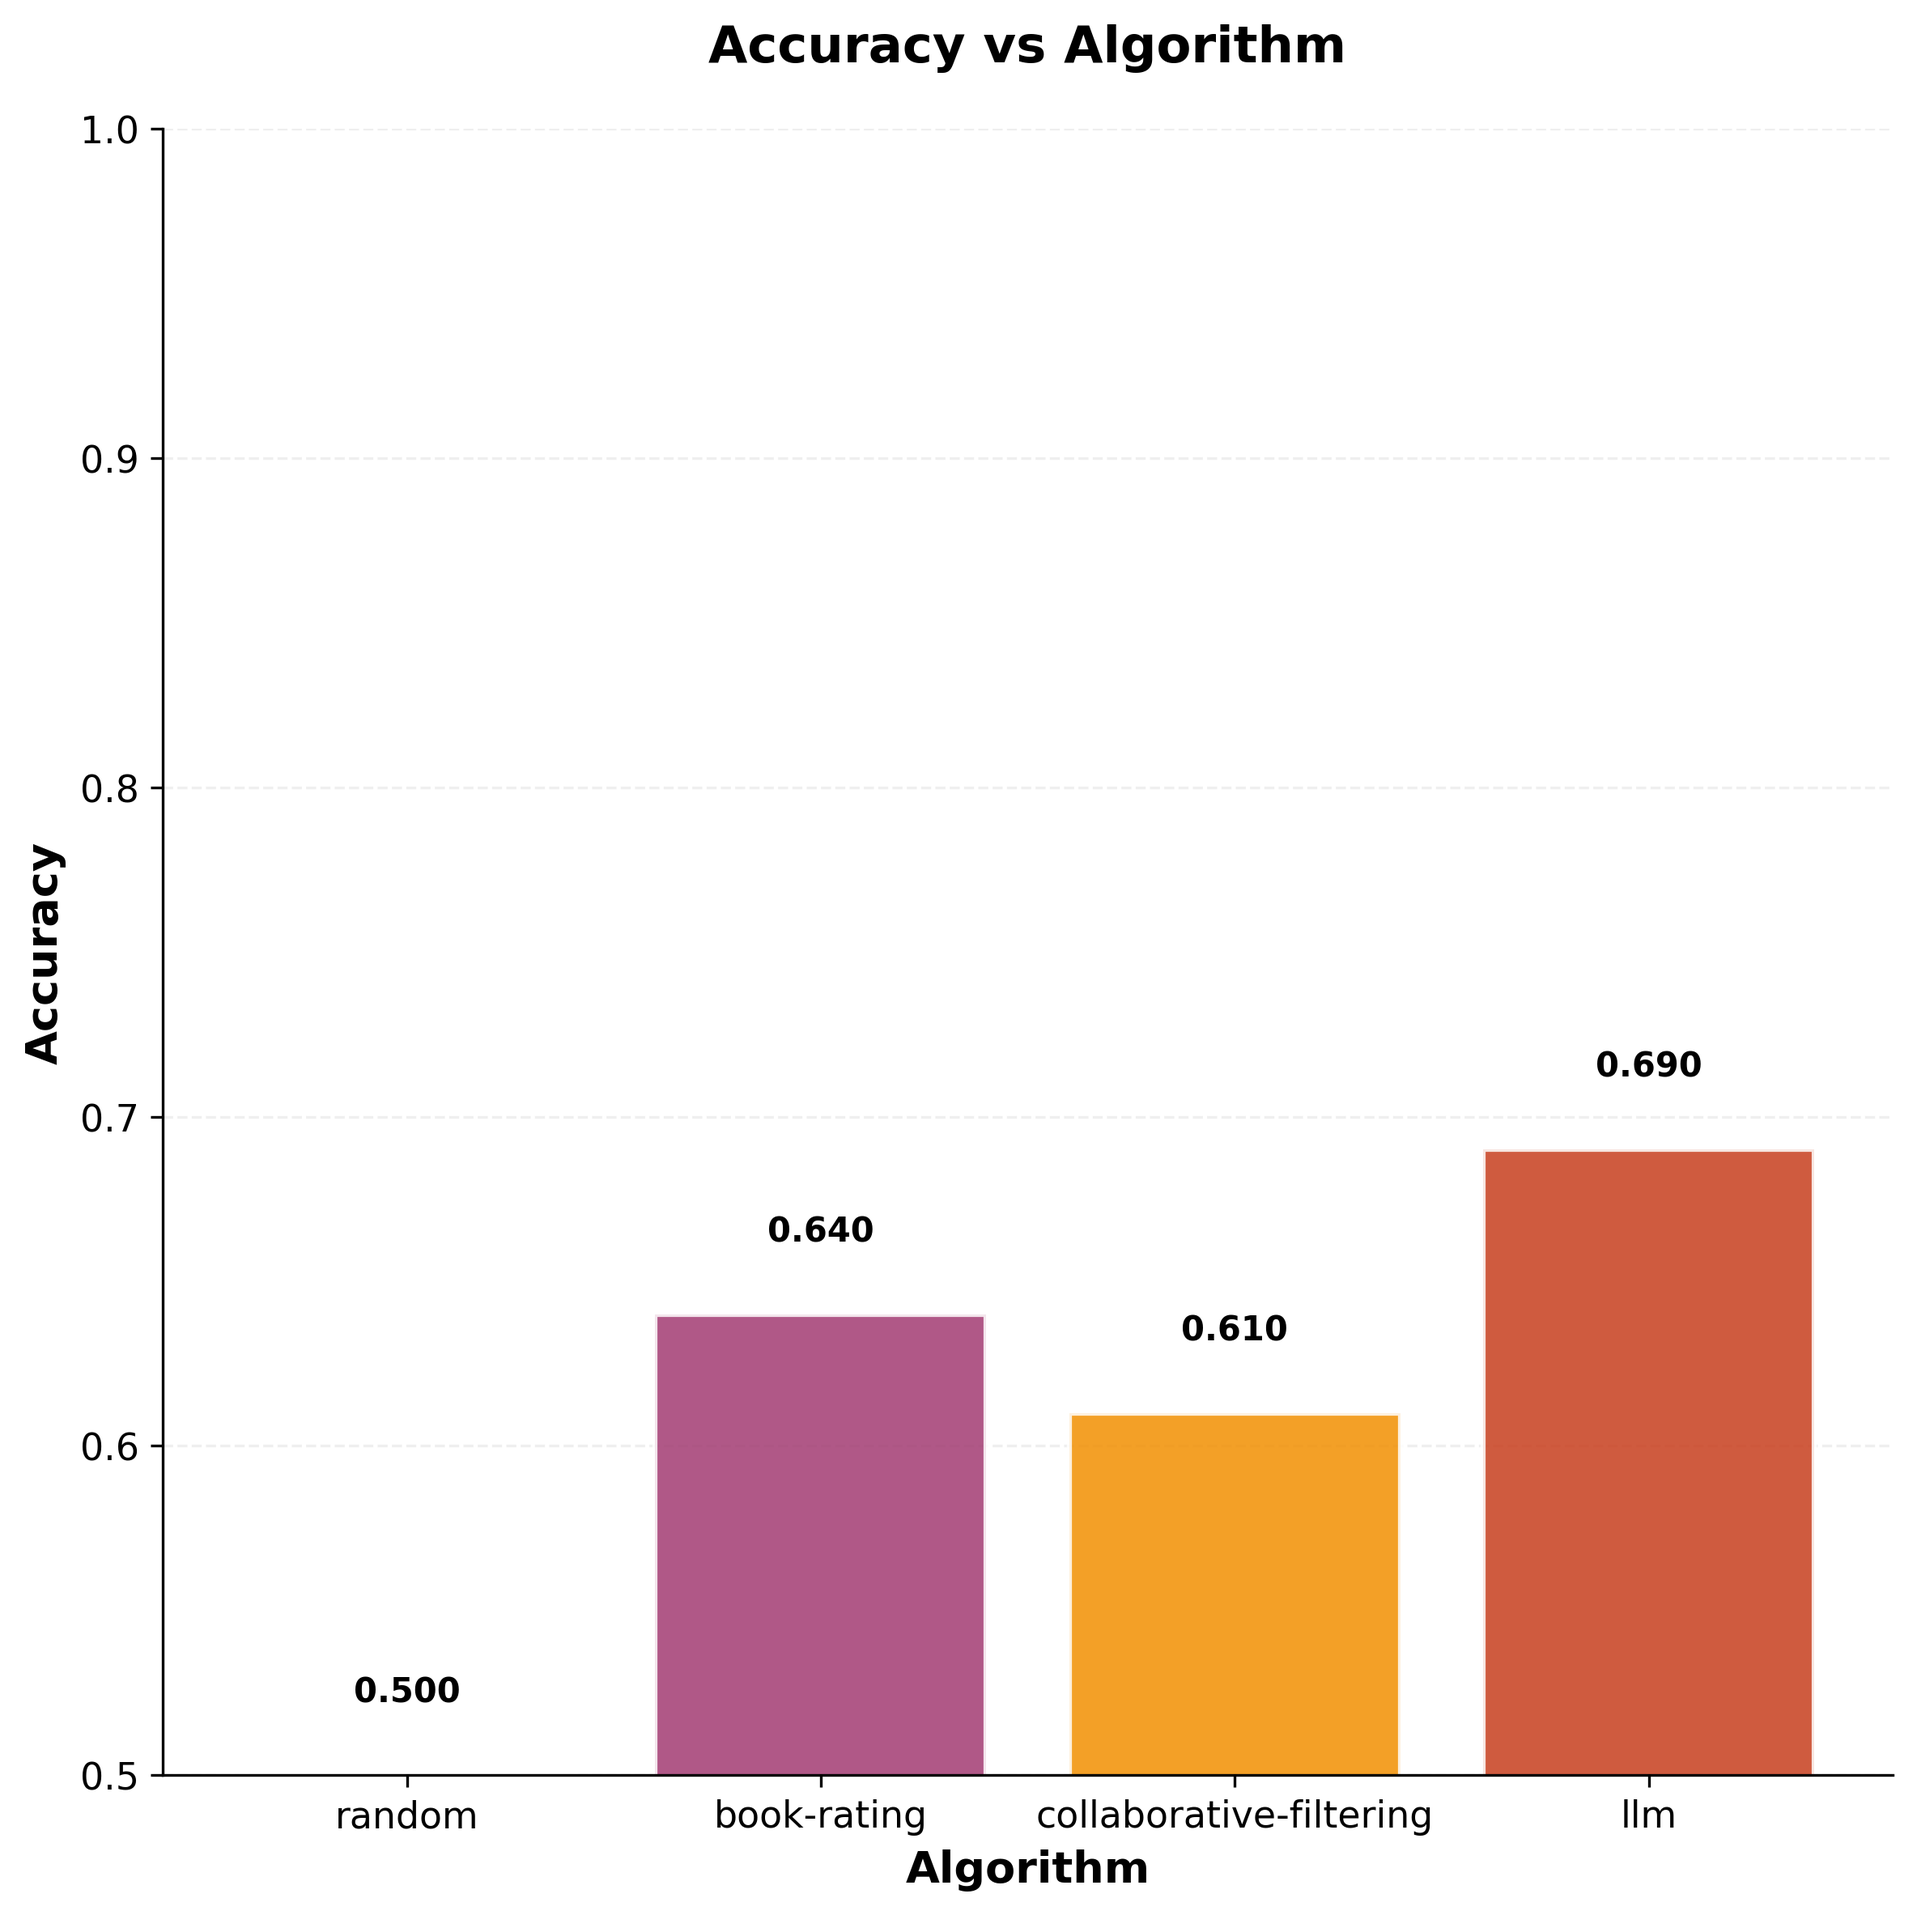
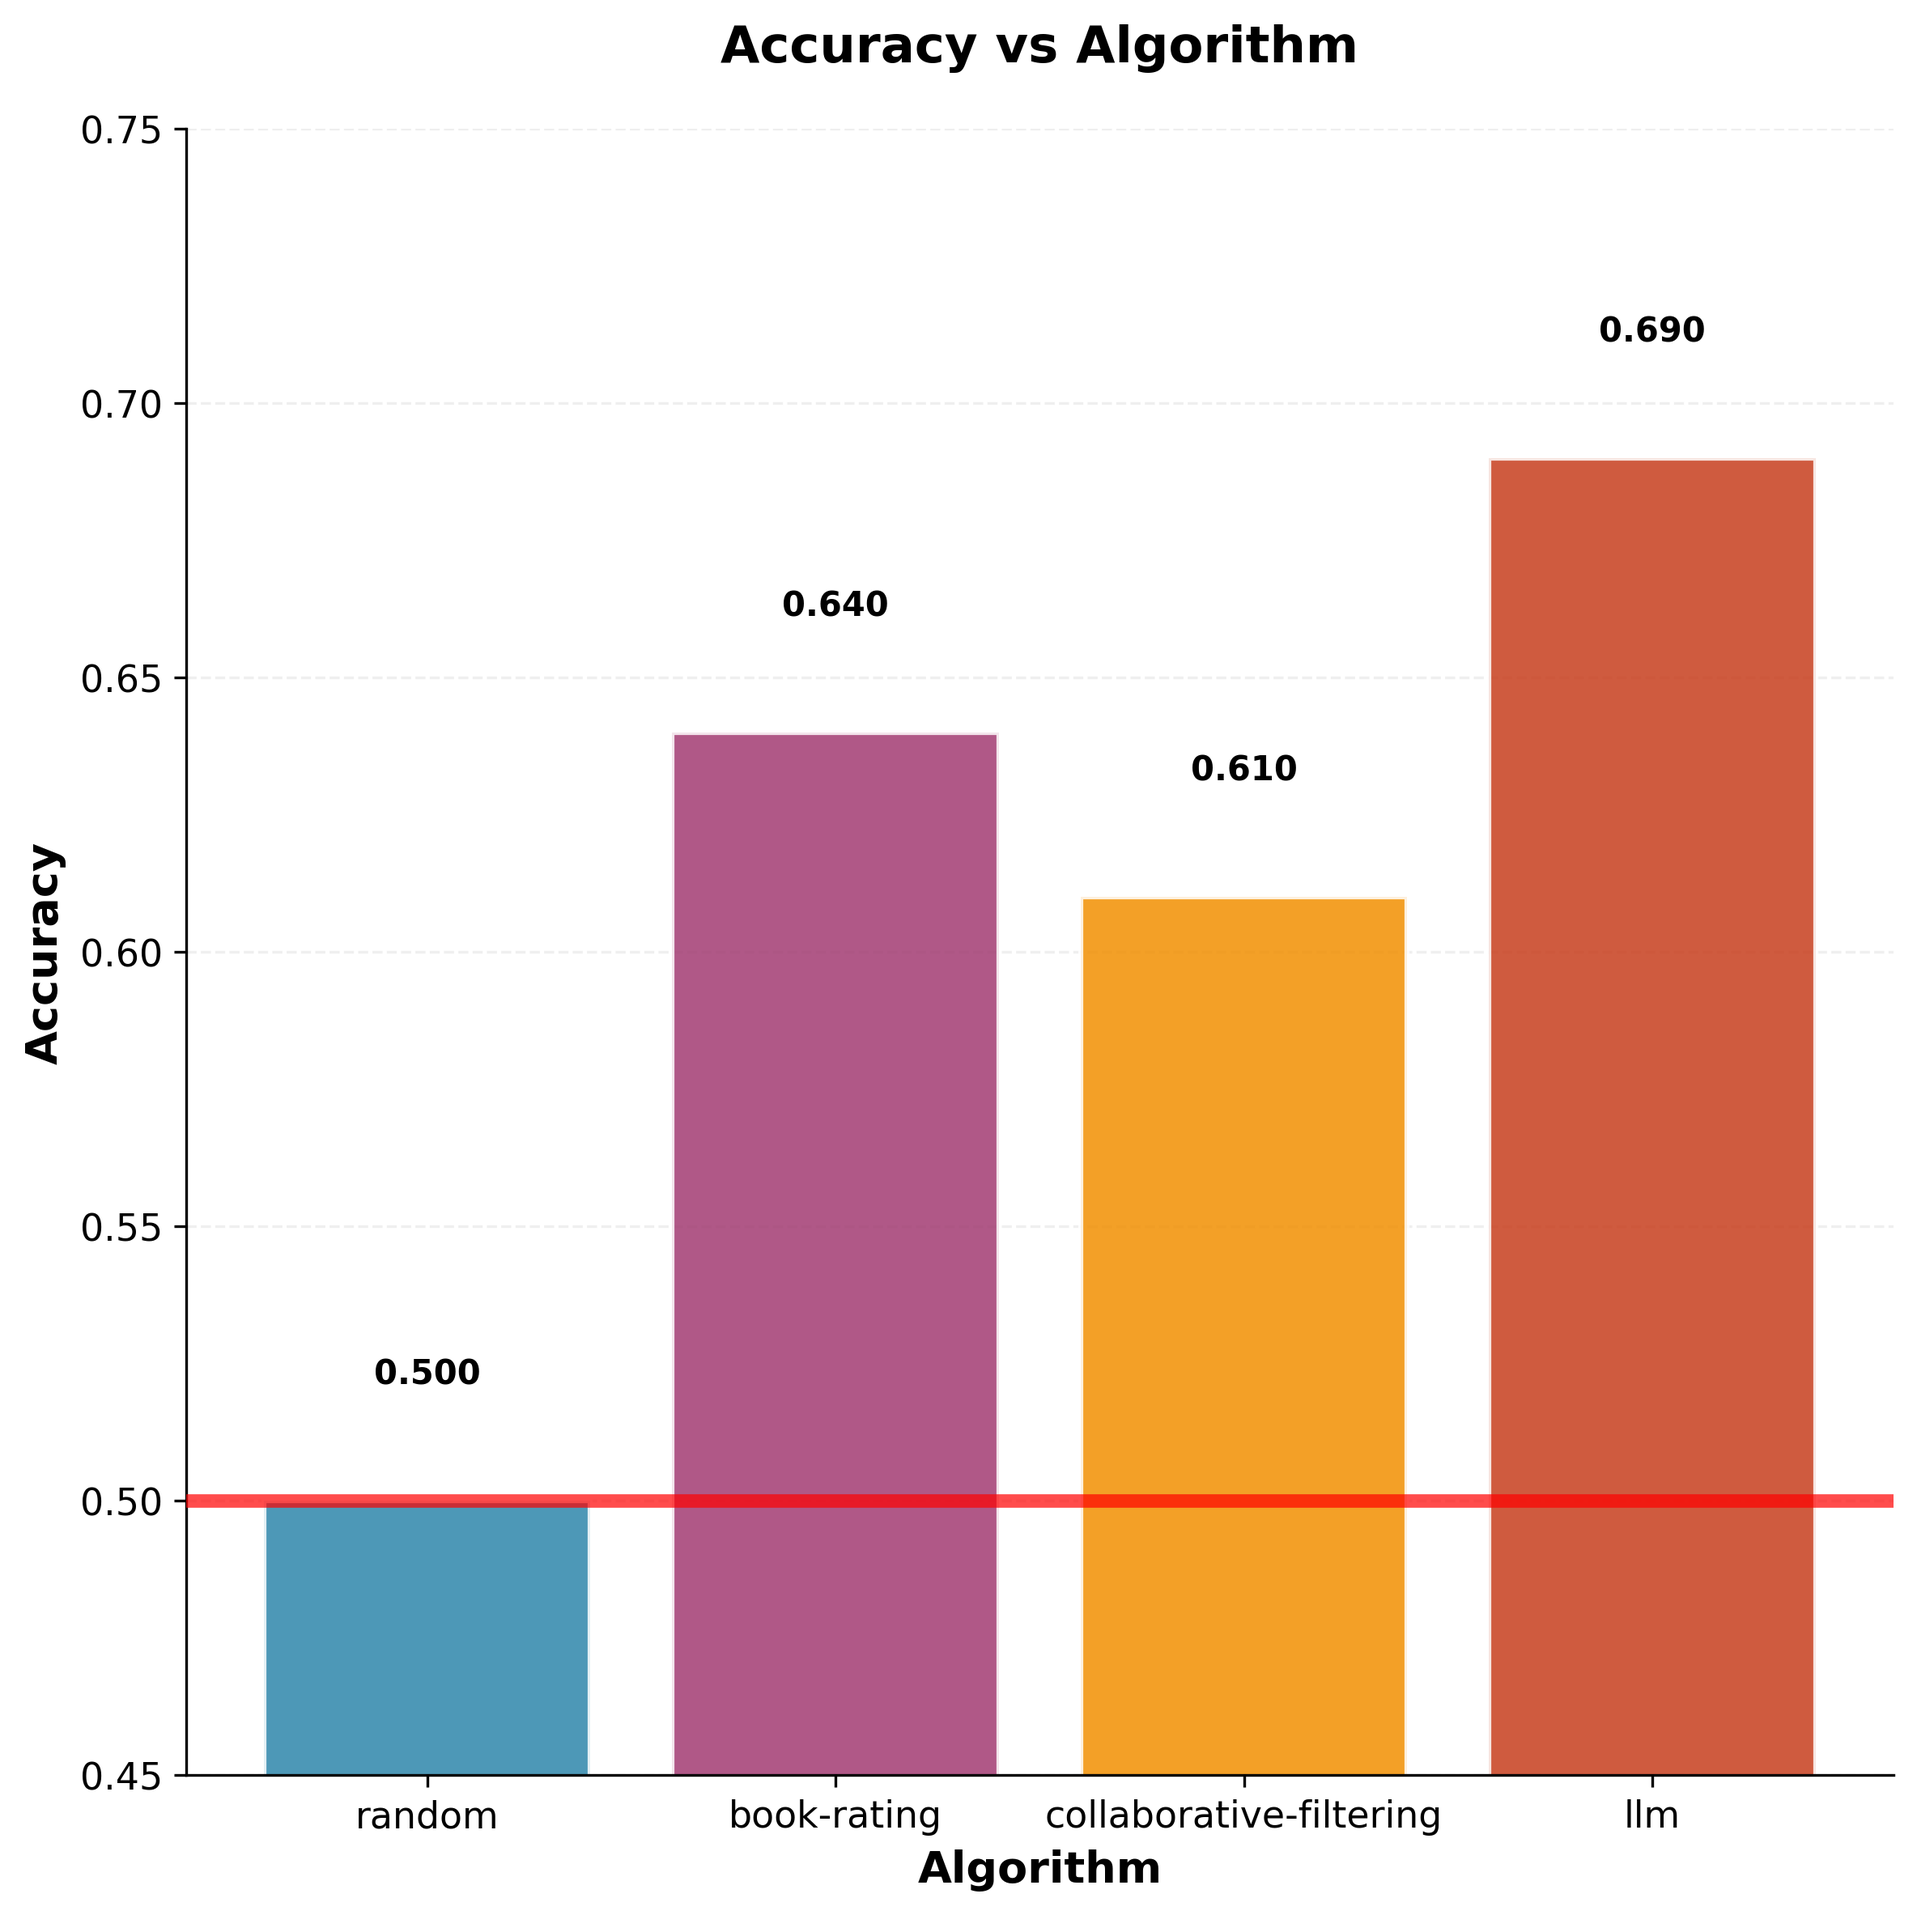
added things

diff --git a/util/plot_results.py b/util/plot_results.py
@@ -198,10 +198,13 @@ def plot_accuracy_vs_book_reviews(results, output_dir, num_book_reviews_list=Non
     ax.set_xticklabels(all_book_reviews, fontsize=11)
     ax.tick_params(axis='y', labelsize=11)
 
+    # Add random baseline on top of bars
+    ax.axhline(0.5, color='red', linestyle='-', linewidth=4, alpha=0.7, zorder=10)
+
     # Aesthetic improvements
     ax.legend(frameon=True, shadow=True, fancybox=True, fontsize=11)
     ax.grid(True, alpha=0.2, axis='y', linestyle='--', linewidth=0.8)
-    ax.set_ylim(0.5, 1.0)
+    ax.set_ylim(0.45, 0.75)
     ax.spines['top'].set_visible(False)
     ax.spines['right'].set_visible(False)
     ax.set_axisbelow(True)
@@ -308,10 +311,13 @@ def plot_accuracy_vs_user_reviews(results, output_dir, num_book_reviews_list=Non
     ax.set_xticklabels(all_user_reviews, fontsize=11)
     ax.tick_params(axis='y', labelsize=11)
 
+    # Add random baseline on top of bars
+    ax.axhline(0.5, color='red', linestyle='-', linewidth=4, alpha=0.7, zorder=10)
+
     # Aesthetic improvements
     ax.legend(frameon=True, shadow=True, fancybox=True, fontsize=11)
     ax.grid(True, alpha=0.2, axis='y', linestyle='--', linewidth=0.8)
-    ax.set_ylim(0.5, 1.0)
+    ax.set_ylim(0.45, 0.75)
     ax.spines['top'].set_visible(False)
     ax.spines['right'].set_visible(False)
     ax.set_axisbelow(True)
@@ -395,9 +401,12 @@ def plot_accuracy_vs_llm_model(results, output_dir, num_book_reviews=None, num_u
     ax.set_xticklabels(model_sizes, fontsize=11)
     ax.tick_params(axis='y', labelsize=11)
 
+    # Add random baseline on top of bars
+    ax.axhline(0.5, color='red', linestyle='-', linewidth=4, alpha=0.7, zorder=10)
+
     # Aesthetic improvements
     ax.grid(True, alpha=0.2, axis='y', linestyle='--', linewidth=0.8)
-    ax.set_ylim(0.5, 1.0)
+    ax.set_ylim(0.45, 0.75)
     ax.spines['top'].set_visible(False)
     ax.spines['right'].set_visible(False)
     ax.set_axisbelow(True)
@@ -448,9 +457,12 @@ def plot_accuracy_vs_algorithm(output_dir):
     ax.set_xticklabels(algorithms, fontsize=11)
     ax.tick_params(axis='y', labelsize=11)
 
+    # Add random baseline on top of bars
+    ax.axhline(0.5, color='red', linestyle='-', linewidth=4, alpha=0.7, zorder=10)
+
     # Aesthetic improvements
     ax.grid(True, alpha=0.2, axis='y', linestyle='--', linewidth=0.8)
-    ax.set_ylim(0.5, 1.0)
+    ax.set_ylim(0.45, 0.75)
     ax.spines['top'].set_visible(False)
     ax.spines['right'].set_visible(False)
     ax.set_axisbelow(True)
